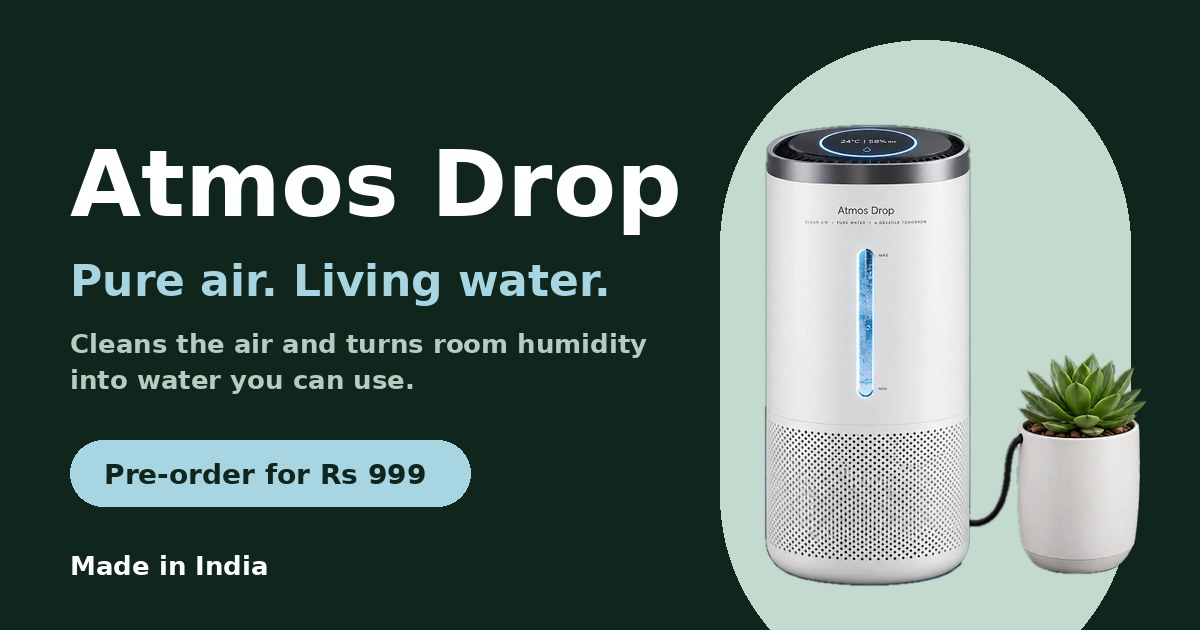
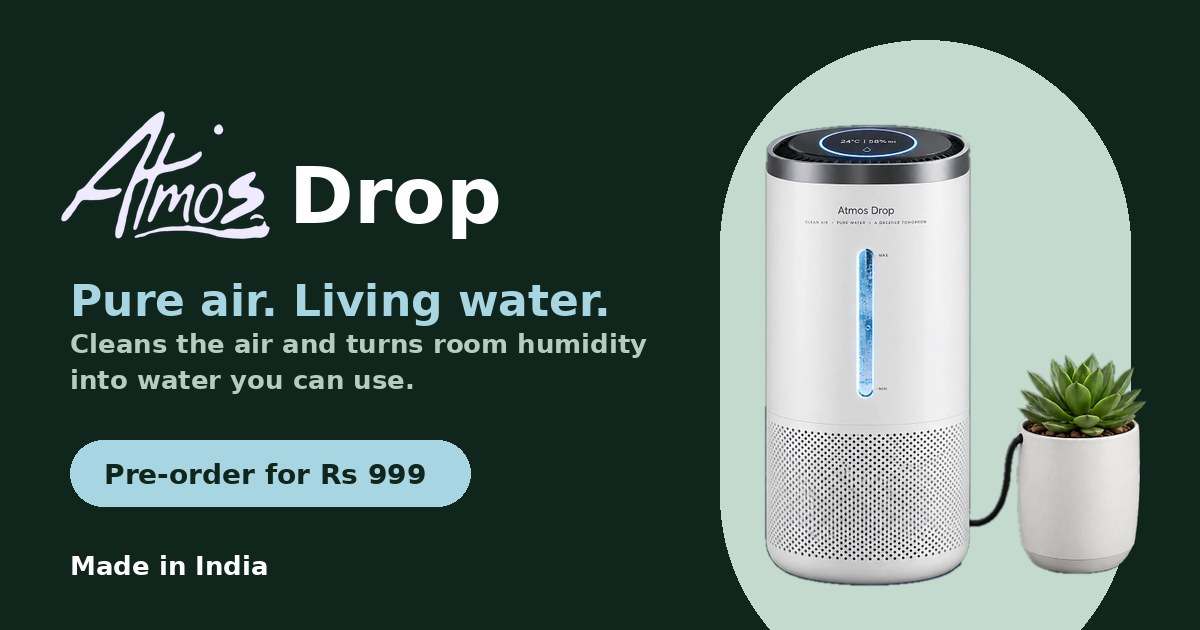
Add files via upload

Changed region(s): [[0.0308, 0.181, 0.5858, 0.3921], [0.0617, 0.4222, 0.5242, 0.5127]]

diff --git a/index.html b/index.html
@@ -11,7 +11,7 @@
 <meta property="og:description" content="Cleans the air and turns humidity into usable water, with filter sensing. For desks, offices, buildings and factories. Made in India.">
 <meta property="og:type" content="website">
 <!-- After you deploy, change the next line to the full web address, e.g. https://YOURNAME.github.io/atmos-drop/assets/og-image.jpg -->
-<meta property="og:image" content="https://sy04299-cyber.github.io/atmos-drop/assets/og-image.jpg">
+<meta property="og:image" content="assets/og-image.jpg">
 <meta name="twitter:card" content="summary_large_image">
 <script>document.documentElement.classList.add("js")</script>
 <link rel="icon" href="assets/favicon.svg" type="image/svg+xml">
@@ -21,7 +21,7 @@
 <link rel="stylesheet" href="css/style.css">
 <script type="application/ld+json">
 {"@context":"https://schema.org","@graph":[
-{"@type":"Organization","name":"Atmos Drop","description":"Air purification with atmospheric water recovery for desks, buildings and industry. Made in India.","founder":[{"@type":"Person","name":"Sujit Kumar Yadav"},{"@type":"Person","name":"Gagandeep Sharma"},{"@type":"Person","name":"Hemant Singh"}],"areaServed":"IN"},
+{"@type":"Organization","name":"Atmos Drop","description":"Air purification with atmospheric water recovery for desks, buildings and industry. Made in India.","logo":"assets/logo.svg","founder":[{"@type":"Person","name":"Sujit Kumar Yadav","jobTitle":"Chief Executive"},{"@type":"Person","name":"Gagandeep Sharma","jobTitle":"Chief Marketing"},{"@type":"Person","name":"Hemant Singh","jobTitle":"Sales Executive"}],"areaServed":"IN"},
 {"@type":"Product","name":"Atmos Drop","description":"Air purifier that recovers condensate from room humidity so the water can be put to non-drinking use.","brand":{"@type":"Brand","name":"Atmos Drop"},"offers":{"@type":"Offer","priceCurrency":"INR","price":"14999","availability":"https://schema.org/PreOrder"}}
 ]}
 </script>
@@ -32,7 +32,7 @@
 <div class="bar"><div class="wrap"><span class="india"><svg class="flag" viewBox="0 0 26 18" aria-hidden="true"><rect width="26" height="6" fill="#FF9933"/><rect y="6" width="26" height="6" fill="#fff"/><rect y="12" width="26" height="6" fill="#138808"/><circle cx="13" cy="9" r="2.3" fill="none" stroke="#000080" stroke-width="1"/></svg>Made in India</span><span class="r">Pre-orders open: reserve for ₹999, pay the balance when your unit ships</span></div></div>
 
 <header class="site"><div class="wrap nav">
-  <a class="brand" href="#top" aria-label="Atmos Drop home"><svg viewBox="0 0 30 36" aria-hidden="true"><path d="M15 1C10 9 3 15 3 23a12 12 0 0 0 24 0C27 15 20 9 15 1z" fill="#10261D"/><path d="M9.5 24c0 3.6 2.4 6 6 6" fill="none" stroke="#A8D5E2" stroke-width="2.6" stroke-linecap="round"/></svg>Atmos Drop</a>
+  <a class="brand" href="#top" aria-label="Atmos Drop home"><img src="assets/logo.svg" width="109" height="67" alt="Atmos"><span class="bw">Drop</span></a>
   <ul id="navList">
     <li><a href="#idea">Idea</a></li>
     <li><a href="#uses">Uses</a></li>
@@ -262,11 +262,41 @@
     <span class="india-badge"><svg class="flag" viewBox="0 0 26 18" aria-hidden="true"><rect width="26" height="6" fill="#FF9933"/><rect y="6" width="26" height="6" fill="#fff"/><rect y="12" width="26" height="6" fill="#138808"/><circle cx="13" cy="9" r="2.3" fill="none" stroke="#000080" stroke-width="1"/></svg>Made in India</span>
     <h2 id="h-about">Designed and built in India</h2>
     <p class="lede">Atmos Drop started as a working prototype built from about ₹3,000 of parts. We are now taking it toward a manufactured product, one tested step at a time, with larger room-, building- and industry-scale versions on our roadmap. We will publish what we measure.</p>
-    <ul class="founders" aria-label="Founders">
-      <li><b>Sujit Kumar Yadav</b><span>Co-founder and product owner</span></li>
-      <li><b>Gagandeep Sharma</b><span>Co-founder and product owner</span></li>
-      <li><b>Hemant Singh</b><span>Co-founder and product owner</span></li>
-    </ul>
+    <p style="margin-top:26px"><a class="textlink" href="#founders">Meet the founders ↓</a></p>
+  </div>
+</div></section>
+
+<section class="founders-sec" id="founders" aria-labelledby="h-founders"><div class="wrap">
+  <div class="fs-head">
+    <span class="label">The team</span>
+    <h2 id="h-founders">Meet the founders</h2>
+    <p class="lede">Three Computer Science students from VIT-AP University, Amaravati, building Atmos Drop together. Tap a card to see more about each of us.</p>
+  </div>
+  <div class="f-grid">
+    <article class="founder">
+      <button class="f-head" type="button" aria-expanded="false" aria-controls="fd-sujit" id="fh-sujit">
+        <span class="f-photo"><svg class="ring" viewBox="0 0 120 120" aria-hidden="true"><circle cx="60" cy="60" r="56"/></svg><img src="assets/founder-sujit.webp" width="380" height="380" alt="Portrait of Sujit Kumar Yadav" loading="lazy" decoding="async"></span>
+        <span class="f-id"><b>Sujit Kumar Yadav</b><span>Chief Executive</span></span>
+        <span class="f-cta"><span class="f-lbl" data-open="Hide details" data-closed="View details">View details</span><i aria-hidden="true"></i></span>
+      </button>
+      <div class="f-panel" id="fd-sujit" role="region" aria-labelledby="fh-sujit"><div class="f-inner"><dl><div style="--i:0"><dt>University</dt><dd>VIT-AP University, Amaravati, Andhra Pradesh</dd></div><div style="--i:1"><dt>Major</dt><dd>Computer Science</dd></div><div style="--i:2"><dt>Key skills</dt><dd>Backend development</dd></div><div style="--i:3"><dt>Role in the venture</dt><dd>Chief Executive</dd></div><div style="--i:4" class="keen"><dt>Commitment</dt><dd><span class="yes"><svg width="16" height="16" viewBox="0 0 24 24" fill="none" stroke="currentColor" stroke-width="3" stroke-linecap="round" stroke-linejoin="round" aria-hidden="true"><path d="M5 12l5 5 9-10"/></svg></span>Keen to continue with the venture</dd></div></dl></div></div>
+    </article>
+    <article class="founder">
+      <button class="f-head" type="button" aria-expanded="false" aria-controls="fd-gagandeep" id="fh-gagandeep">
+        <span class="f-photo"><svg class="ring" viewBox="0 0 120 120" aria-hidden="true"><circle cx="60" cy="60" r="56"/></svg><img src="assets/founder-gagandeep.webp" width="380" height="380" alt="Portrait of Gagandeep Sharma" loading="lazy" decoding="async"></span>
+        <span class="f-id"><b>Gagandeep Sharma</b><span>Chief Marketing</span></span>
+        <span class="f-cta"><span class="f-lbl" data-open="Hide details" data-closed="View details">View details</span><i aria-hidden="true"></i></span>
+      </button>
+      <div class="f-panel" id="fd-gagandeep" role="region" aria-labelledby="fh-gagandeep"><div class="f-inner"><dl><div style="--i:0"><dt>University</dt><dd>VIT-AP University, Amaravati, Andhra Pradesh</dd></div><div style="--i:1"><dt>Major</dt><dd>Computer Science</dd></div><div style="--i:2"><dt>Key skills</dt><dd>Marketing and sales</dd></div><div style="--i:3"><dt>Role in the venture</dt><dd>Chief Marketing</dd></div><div style="--i:4" class="keen"><dt>Commitment</dt><dd><span class="yes"><svg width="16" height="16" viewBox="0 0 24 24" fill="none" stroke="currentColor" stroke-width="3" stroke-linecap="round" stroke-linejoin="round" aria-hidden="true"><path d="M5 12l5 5 9-10"/></svg></span>Keen to continue with the venture</dd></div></dl></div></div>
+    </article>
+    <article class="founder">
+      <button class="f-head" type="button" aria-expanded="false" aria-controls="fd-hemant" id="fh-hemant">
+        <span class="f-photo"><svg class="ring" viewBox="0 0 120 120" aria-hidden="true"><circle cx="60" cy="60" r="56"/></svg><img src="assets/founder-hemant.webp" width="380" height="380" alt="Portrait of Hemant Singh" loading="lazy" decoding="async"></span>
+        <span class="f-id"><b>Hemant Singh</b><span>Sales Executive</span></span>
+        <span class="f-cta"><span class="f-lbl" data-open="Hide details" data-closed="View details">View details</span><i aria-hidden="true"></i></span>
+      </button>
+      <div class="f-panel" id="fd-hemant" role="region" aria-labelledby="fh-hemant"><div class="f-inner"><dl><div style="--i:0"><dt>University</dt><dd>VIT-AP University, Amaravati, Andhra Pradesh</dd></div><div style="--i:1"><dt>Major</dt><dd>Computer Science</dd></div><div style="--i:2"><dt>Key skills</dt><dd>Sales pitch</dd></div><div style="--i:3"><dt>Role in the venture</dt><dd>Sales Executive</dd></div><div style="--i:4" class="keen"><dt>Commitment</dt><dd><span class="yes"><svg width="16" height="16" viewBox="0 0 24 24" fill="none" stroke="currentColor" stroke-width="3" stroke-linecap="round" stroke-linejoin="round" aria-hidden="true"><path d="M5 12l5 5 9-10"/></svg></span>Keen to continue with the venture</dd></div></dl></div></div>
+    </article>
   </div>
 </div></section>
 
@@ -312,7 +342,7 @@
 <footer><div class="wrap">
   <div class="top">
     <div>
-      <a class="brand" href="#top" style="color:#fff"><svg viewBox="0 0 30 36" aria-hidden="true"><path d="M15 1C10 9 3 15 3 23a12 12 0 0 0 24 0C27 15 20 9 15 1z" fill="#A8D5E2"/></svg>Atmos Drop</a>
+      <a class="brand" href="#top" style="color:#fff" aria-label="Atmos Drop home"><img src="assets/logo-light.svg" width="109" height="67" alt="Atmos"><span class="bw">Drop</span></a>
       <p style="margin:12px 0 10px">Pure indoor air. Living water from humidity.</p>
       <span class="india"><svg class="flag" viewBox="0 0 26 18" aria-hidden="true"><rect width="26" height="6" fill="#FF9933"/><rect y="6" width="26" height="6" fill="#fff"/><rect y="12" width="26" height="6" fill="#138808"/><circle cx="13" cy="9" r="2.3" fill="none" stroke="#000080" stroke-width="1"/></svg>Made in India</span>
     </div>

diff --git a/css/style.css b/css/style.css
@@ -55,7 +55,7 @@ section{padding:clamp(72px,10vw,140px) 0}
 header.site{position:sticky;top:env(safe-area-inset-top,0px);z-index:100;background:rgba(244,246,241,.92);backdrop-filter:blur(12px);-webkit-backdrop-filter:blur(12px);border-bottom:1px solid var(--rule)}
 .nav{display:flex;align-items:center;gap:20px;min-height:72px}
 .brand{display:inline-flex;align-items:center;gap:10px;text-decoration:none;color:var(--ink);font-family:var(--display);font-weight:800;font-size:1.6rem;letter-spacing:-.04em;line-height:1}
-.brand svg{width:30px;height:36px;flex:none}
+.brand img{height:50px;width:auto;display:block;flex:none}
 .nav ul{display:flex;gap:4px;list-style:none;margin:0 auto;padding:0}
 .nav ul a{display:block;padding:9px 14px;color:var(--ink);text-decoration:none;font-weight:600;font-size:.95rem;border-radius:999px}
 .nav ul a:hover{background:var(--mist)}
@@ -386,4 +386,49 @@ dialog[open]::backdrop{animation:fadeIn .32s ease}
 .uses-cta{margin-top:36px;display:flex;flex-wrap:wrap;gap:16px 28px;align-items:center;justify-content:space-between}
 .uses-cta span{font-family:var(--display);font-weight:700;font-size:clamp(1.3rem,2.4vw,1.8rem);letter-spacing:-.03em}
 @media (max-width:860px){.use{grid-template-columns:1fr;gap:8px}.use .stat{justify-self:start}.stat{justify-self:start}.uses-water{grid-template-columns:1fr;padding:24px}.uses-water b{grid-row:auto}}
+
+/* logo lockup */
+.brand{gap:8px}
+.brand .bw{font-family:var(--display);font-weight:800;font-size:1.45rem;letter-spacing:-.04em;line-height:1;align-self:flex-end;padding-bottom:6px}
+footer .brand img{height:56px}
+/* founders */
+.founders-sec{background:var(--mist);border-block:1px solid var(--rule)}
+.fs-head{max-width:640px;margin-bottom:44px}
+.fs-head h2{margin-bottom:.35em}
+.f-grid{display:grid;grid-template-columns:repeat(3,1fr);gap:22px;align-items:start}
+.founder{background:#fff;border:1.5px solid var(--rule);border-radius:30px;overflow:hidden;transition:border-color .4s ease,box-shadow .6s var(--ease),transform .6s var(--ease)}
+.founder:hover{transform:translateY(-5px);box-shadow:0 26px 40px -30px rgba(16,38,29,.6)}
+.founder.open{border-color:var(--moss);box-shadow:0 34px 56px -34px rgba(16,38,29,.65);transform:none}
+.f-head{all:unset;box-sizing:border-box;width:100%;display:grid;grid-template-columns:auto 1fr;gap:6px 22px;align-items:center;padding:26px 26px 20px;cursor:pointer}
+.f-head:focus-visible{outline:3px solid var(--dew-deep);outline-offset:-6px;border-radius:26px}
+.f-photo{position:relative;width:108px;height:108px;flex:none}
+.f-photo img{position:absolute;inset:8px;width:calc(100% - 16px);height:calc(100% - 16px);border-radius:50%;object-fit:cover;background:var(--mist);transition:transform .8s var(--ease)}
+.f-photo .ring{position:absolute;inset:0;width:100%;height:100%;transform:rotate(-90deg)}
+.f-photo .ring circle{fill:none;stroke:var(--rule);stroke-width:2.2}
+.f-photo::after{content:"";position:absolute;inset:0;border-radius:50%;border:2.5px solid var(--leaf);clip-path:inset(0 100% 100% 0);transition:clip-path 1.1s var(--ease)}
+.founder:hover .f-photo img{transform:scale(1.07)}
+.founder.open .f-photo img{transform:scale(1.04)}
+.founder.open .f-photo::after{clip-path:inset(-4px -4px -4px -4px)}
+.f-id b{display:block;font-family:var(--display);font-size:1.5rem;letter-spacing:-.035em;line-height:1.05;margin-bottom:6px}
+.f-id span{display:inline-block;font-size:.8rem;font-weight:700;letter-spacing:.02em;padding:4px 12px;border-radius:999px;background:var(--mist);color:var(--leaf)}
+.f-cta{grid-column:1 / -1;display:flex;justify-content:space-between;align-items:center;border-top:1px solid var(--rule);margin-top:14px;padding-top:14px;font-weight:700;font-size:.93rem;color:var(--moss)}
+.f-cta i{position:relative;width:32px;height:32px;border-radius:50%;border:1.5px solid var(--moss);transition:transform .6s var(--ease),background .3s,border-color .3s}
+.f-cta i::before,.f-cta i::after{content:"";position:absolute;left:50%;top:50%;width:12px;height:1.8px;background:var(--moss);transform:translate(-50%,-50%);transition:background .3s}
+.f-cta i::after{transform:translate(-50%,-50%) rotate(90deg)}
+.founder:hover .f-cta i{background:var(--moss)}
+.founder:hover .f-cta i::before,.founder:hover .f-cta i::after{background:var(--paper)}
+.founder.open .f-cta i{transform:rotate(135deg);background:var(--moss)}
+.founder.open .f-cta i::before,.founder.open .f-cta i::after{background:var(--paper)}
+.f-panel{display:grid;grid-template-rows:0fr;transition:grid-template-rows .7s var(--ease)}
+.founder.open .f-panel{grid-template-rows:1fr}
+.f-inner{overflow:hidden;min-height:0;visibility:hidden;transition:visibility 0s .7s}
+.founder.open .f-inner{visibility:visible;transition-delay:0s}
+.f-inner dl{margin:0;padding:0 26px 26px}
+.f-inner dl>div{padding:13px 0;border-top:1px solid var(--rule);opacity:0;transform:translateY(16px);transition:opacity .35s ease,transform .45s var(--ease)}
+.founder.open .f-inner dl>div{opacity:1;transform:none;transition:opacity .6s ease calc(.18s + var(--i) * .08s),transform .7s var(--ease) calc(.18s + var(--i) * .08s)}
+.f-inner dt{font-size:.76rem;font-weight:700;letter-spacing:.1em;text-transform:uppercase;color:var(--leaf);margin-bottom:2px}
+.f-inner dd{margin:0;font-weight:600;line-height:1.45}
+.f-inner .yes{display:inline-grid;place-items:center;width:22px;height:22px;border-radius:50%;background:var(--ok-bg);color:var(--ok);margin-right:8px;vertical-align:-4px}
+@media (max-width:980px){.f-grid{grid-template-columns:1fr;max-width:560px;margin:0 auto}}
+@media (prefers-reduced-motion: reduce){.founder,.f-panel,.f-inner dl>div,.f-photo::after,.f-photo img{transition:none!important}}
 @media (prefers-reduced-motion: reduce){html{scroll-behavior:auto}*{transition-duration:.01ms!important}#cut .air,#cut .fan-blades,#cut .d1,#cut .d2,#cut .d3{animation:none}}

diff --git a/js/app.js b/js/app.js
@@ -287,6 +287,21 @@
   function onScroll() { var y = window.scrollY, p = $("product").getBoundingClientRect(); sticky.classList.toggle("show", y > 700 && !(p.top < 200 && p.bottom > 300)); }
   window.addEventListener("scroll", onScroll, { passive: true }); onScroll();
 
+  /* ---------- founders: click to open details ---------- */
+  var founders = document.querySelectorAll(".founder");
+  founders.forEach(function (f) {
+    var btn = f.querySelector(".f-head"), lbl = f.querySelector(".f-lbl");
+    btn.addEventListener("click", function () {
+      var willOpen = !f.classList.contains("open");
+      founders.forEach(function (o) {
+        var on = o === f && willOpen;
+        o.classList.toggle("open", on);
+        o.querySelector(".f-head").setAttribute("aria-expanded", on ? "true" : "false");
+        var l = o.querySelector(".f-lbl"); l.textContent = on ? l.getAttribute("data-open") : l.getAttribute("data-closed");
+      });
+    });
+  });
+
   /* ---------- motion: header, progress, reveal, accordion ---------- */
   var reduce = window.matchMedia && matchMedia("(prefers-reduced-motion: reduce)").matches;
   var hdr = document.querySelector("header.site"), prog = $("prog"), ticking = false;
@@ -299,7 +314,7 @@
   window.addEventListener("scroll", function () { if (!ticking) { ticking = true; requestAnimationFrame(onFrame); } }, { passive: true });
   onFrame();
 
-  var groups = [".idea .big", ".uses .label", ".uses h2", ".uses .lede", ".use", ".uses-water", ".uses-cta", ".trio>div", ".steps3 h2", ".tl>div", ".how .label", ".how h2", ".how .lede", ".explorer>*", ".gallery", ".buybox", ".specs>*", "#track .track-grid>*", ".about-grid>*", ".founders li", ".faq-cols>*", ".contact-grid>*"];
+  var groups = [".idea .big", ".uses .label", ".uses h2", ".uses .lede", ".use", ".uses-water", ".uses-cta", ".trio>div", ".steps3 h2", ".tl>div", ".how .label", ".how h2", ".how .lede", ".explorer>*", ".gallery", ".buybox", ".specs>*", "#track .track-grid>*", ".about-grid>*", ".fs-head>*", ".founder", ".faq-cols>*", ".contact-grid>*"];
   var targets = [];
   groups.forEach(function (sel) {
     document.querySelectorAll(sel).forEach(function (el, i) { el.setAttribute("data-reveal", ""); el.style.setProperty("--d", (Math.min(i, 5) * 0.09).toFixed(2) + "s"); targets.push(el); });

diff --git a/README.md b/README.md
@@ -1,0 +1,134 @@
+# Atmos Drop website: setup guide
+
+This folder is a complete website. It needs **no coding tools**: you upload the files to a free host and connect a free database.
+
+| File | What it is |
+|---|---|
+| `index.html` | The shop (home page, pre-order cart, order tracking) |
+| `admin.html` | Your private dashboard to see and manage orders |
+| `config.js` | **The only file you edit.** Your database keys and business details |
+| `supabase/schema.sql` | Sets up the database (tables and security) |
+| `css/`, `js/`, `assets/` | Design, logic and images |
+
+Time needed: about 30 minutes. Cost: ₹0 for the website and database (payment gateways charge their own fees per payment).
+
+---
+
+## Step 1. Create the free database (Supabase)
+
+1. Go to https://supabase.com, sign up and click **New project**. Choose a name (for example `atmos-drop`), set a database password (save it), pick the region closest to your customers (for India, a Mumbai or Singapore region if offered) and click **Create**. Wait a minute or two.
+2. In the left menu open **SQL Editor** > **New query**. Open `supabase/schema.sql` from this folder, copy everything, paste it in, and click **Run**. You should see "Success". This creates the tables for orders and enquiries and locks them so only you can read them.
+
+## Step 2. Create your admin login
+
+1. In Supabase open **Authentication** > **Users** > **Add user** > **Create new user**. Enter your email and a strong password, and tick **Auto Confirm User**.
+2. Open **SQL Editor**, run this (use the same email), then click **Run**:
+   ```sql
+   insert into public.admins (email) values ('you@example.com');
+   ```
+   Repeat for each founder who needs access (create each user first).
+3. Recommended: **Authentication** > **Sign In / Providers** (or **Settings**) and switch **off** "Allow new users to sign up". Even if left on, new users cannot see any data unless they are in the `admins` table.
+
+## Step 3. Connect the website to the database
+
+1. In Supabase open **Project Settings** > **API**. Copy the **Project URL** and the **anon public** key.
+2. Open `config.js` in any text editor (Notepad is fine) and paste them in:
+   ```js
+   SUPABASE_URL: "https://xxxxxxxx.supabase.co",
+   SUPABASE_ANON_KEY: "eyJ...",
+   ```
+   The anon key is designed to be public. Your data is protected by the rules in `schema.sql`. **Never put the `service_role` key anywhere in this folder.**
+3. While you are in `config.js`, also fill in your contact email, WhatsApp number and business details (seller name, address, GSTIN). Indian e-commerce rules expect these to be shown.
+
+## Step 4. Put the website online (free)
+
+Pick one (GitHub Pages is explained in full in the next section):
+* **GitHub Pages**: free, see "Host on GitHub Pages" below.
+* **Netlify**: go to https://app.netlify.com/drop and drag this whole folder onto the page. You get a live link at once. Add your own domain under *Domain settings*.
+* **Cloudflare Pages**: create a project and upload the folder (Direct Upload).
+* **GitHub Pages / Vercel**: upload the folder to a repository and enable hosting.
+
+Your shop is at the site address; your dashboard is at `your-site/admin.html`.
+
+## Step 5. Test it end to end
+
+1. Open the live site, pre-order 1 unit with your own details and confirm you get a reference like `AD-1A2B3C4D`.
+2. In Supabase open **Table Editor** > **orders**: the order is there.
+3. Open `your-site/admin.html`, sign in, and see the same order. Change its status.
+4. On the shop, use **Track your order** with the reference and mobile number.
+5. Delete the test order in the admin or Table Editor.
+
+## Step 6. Take payments (optional but recommended)
+
+Orders are saved even with no payment set up; you then message the customer payment instructions yourself.
+
+* **UPI (simplest):** put your UPI ID in `UPI_ID`. Customers on a phone tap "Pay with a UPI app".
+* **Razorpay (UPI, cards, netbanking):** create a Razorpay account, complete KYC, and put the **Key ID** (starts with `rzp_test_` for testing, `rzp_live_` for real) in `RAZORPAY_KEY_ID`. After a customer pays, the order becomes `payment_claimed`. Check the payment in the Razorpay dashboard, then set the order to `reserved` in the admin.
+
+Why the manual check? A browser can claim a payment that never happened, so you confirm every payment before reserving. If order volume grows, ask a developer to add a Razorpay webhook (a small Supabase Edge Function) to confirm payments automatically.
+
+## Changing prices
+
+Prices are stored in the database so customers cannot change them. To change them, in Supabase **SQL Editor**:
+```sql
+update public.product_config set price = 14999, plan_price = 2400, reservation = 999 where id = 1;
+```
+Then update the same three numbers at the top of `js/app.js` (`PRICE`, `PLAN`, `RESERVE`) and in the visible text of `index.html`, so the page and the database agree.
+
+## Order statuses
+
+`pending_payment` > `payment_claimed` > `reserved` > `balance_paid` > `shipped` > `delivered`, plus `cancelled` and `refunded`. Customers see these as friendly steps on the tracking panel.
+
+## Things to know
+
+* **Free plan limits:** Supabase free projects have limits and may be paused after a period of inactivity; free projects do not include automatic backups. Check Supabase's current pricing page. Use **Export CSV** in the admin regularly, and visit the site or dashboard often so the project stays active. Upgrading to a paid plan removes these limits.
+* **Spam:** the forms have a hidden trap field and the database limits repeat orders. For stronger protection add Cloudflare Turnstile later.
+* **Emails:** this setup does not send automatic emails. You see new orders in the admin and email customers yourself, or connect an email service later.
+* **Legal:** the Privacy, Terms and Pre-order pages are plain-language drafts. Have a professional review them before taking real money, and fill in your business details.
+* **Privacy of data:** customer data is only readable by people in the `admins` table who are signed in.
+
+
+---
+
+## Host on GitHub Pages (free)
+
+GitHub Pages serves your website for free from a GitHub "repository" (an online folder).
+
+**Before you start:** unzip `atmos-drop-site.zip` on your computer. GitHub cannot unpack a zip for you.
+
+### 1. Create a GitHub account and repository
+1. Go to https://github.com and sign up (free).
+2. Click the **+** at the top right, then **New repository**.
+3. Repository name: `atmos-drop` (or your own name). Choose **Public**. (Free accounts can publish Pages from public repositories.) Click **Create repository**.
+
+### 2. Upload the website files
+1. On the new empty repository page, click **uploading an existing file**.
+2. Open the unzipped `atmos-drop-site` folder on your computer, **select everything inside it** (`index.html`, `admin.html`, `config.js`, `404.html`, `robots.txt`, `.nojekyll`, and the folders `css`, `js`, `assets`, `supabase`) and **drag them all onto the browser page**. Dragging folders works in Chrome and Edge, and keeps the folder structure.
+3. Wait until every file shows in the list, then click **Commit changes** (green button).
+4. Check: the repository page should show `index.html` and the `css`, `js` and `assets` folders at the top level (not inside another folder).
+
+> If `.nojekyll` is hidden on your computer, it is fine to skip it.
+
+### 3. Turn the website on
+1. In the repository click **Settings** > **Pages** (left menu).
+2. Under **Build and deployment**, set **Source** to **Deploy from a branch**.
+3. Set **Branch** to `main` and the folder to `/ (root)`, then click **Save**.
+4. Wait 1 to 2 minutes and refresh. A box appears: **Your site is live at** `https://YOURNAME.github.io/atmos-drop/`. Open it.
+
+Your shop is at that address. Your dashboard is at `https://YOURNAME.github.io/atmos-drop/admin.html`.
+
+### 4. Edit your settings later
+Open `config.js` in the repository, click the pencil icon, change the values (for example your Supabase URL and key), and click **Commit changes**. The site updates in a minute or two.
+
+### 5. Use your own domain (optional)
+1. Buy a domain (for example `atmosdrop.in`).
+2. In **Settings** > **Pages** > **Custom domain**, type it and click **Save**.
+3. At your domain seller, add the DNS records GitHub shows (a `CNAME` for `www`, and `A` records for the bare domain). HTTPS turns on automatically; tick **Enforce HTTPS**.
+
+### 6. Fix the share preview image (once live)
+In `index.html`, find the line starting `<meta property="og:image"` and replace `assets/og-image.jpg` with the full address, for example `https://YOURNAME.github.io/atmos-drop/assets/og-image.jpg`. Social apps need the full address to show your picture when the link is shared.
+
+### Safety notes for GitHub
+* A public repository is visible to everyone, including `config.js`. That is fine for the Supabase **anon** key and your business details. **Never upload the Supabase `service_role` key, database password or any secret.**
+* The admin page is protected by login and database rules, not by being hidden. It is marked "noindex" so search engines skip it.
+* If a page does not load after you publish, check that file names are lower case and exactly as in this folder (`css/style.css`, not `CSS/Style.css`).
